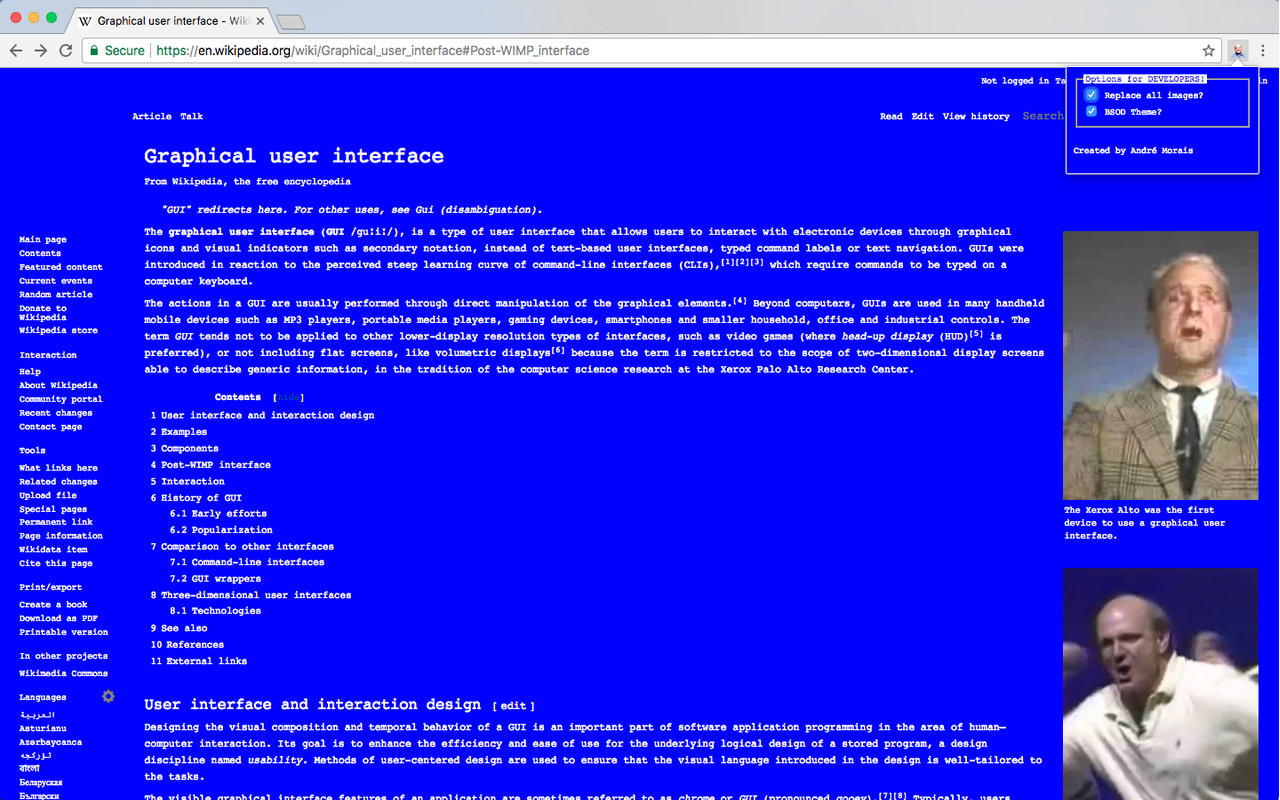
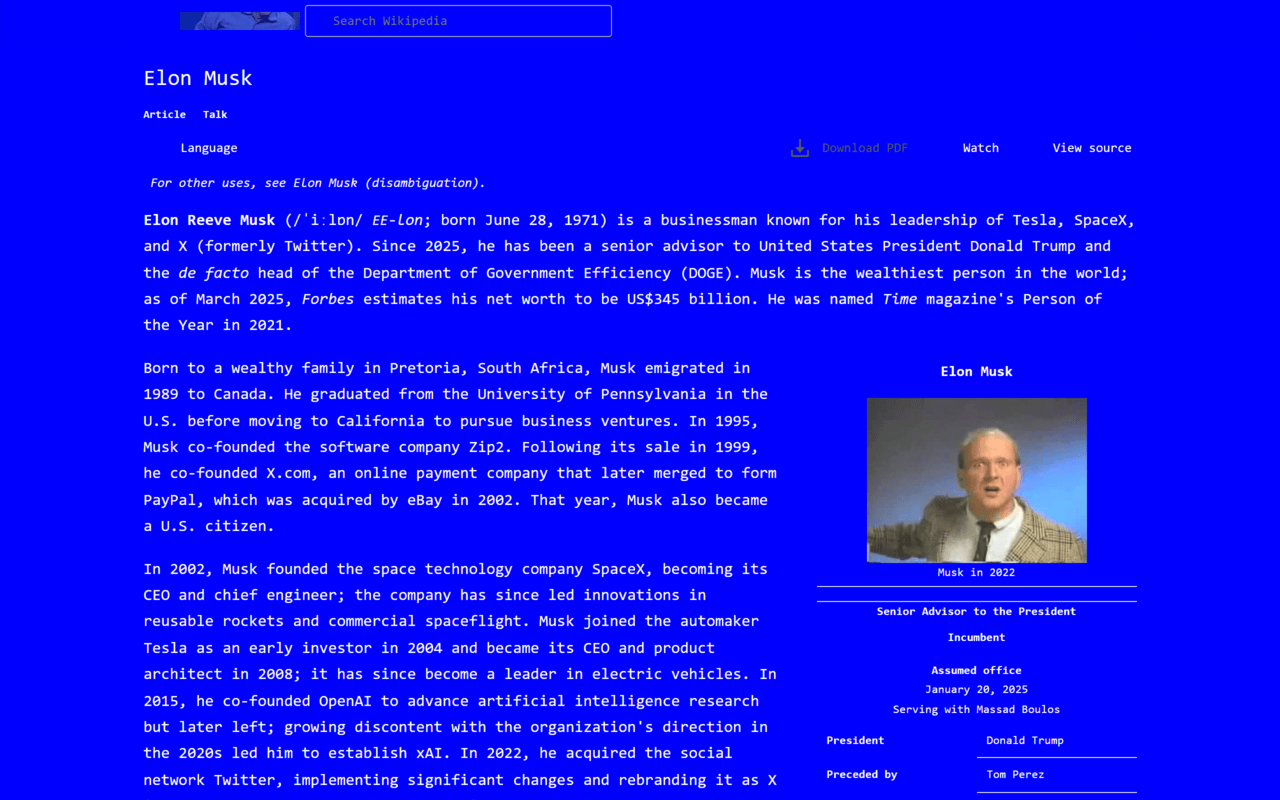
Updated manifest to v3 and minor changes

diff --git a/nSteveBallmer.js b/nSteveBallmer.js
@@ -1,30 +1,30 @@
 //nSteveBallmer
-(function($) {
+(function ($) {
 
   //initialize options
   var changeImages = false;
   var changeBgColor = false;
 
-  chrome.storage.sync.get("replaceImagesValue", function(items) {
+  chrome.storage.sync.get("replaceImagesValue", function (items) {
     if (!chrome.runtime.error) {
       changeImages = items.replaceImagesValue;
     }
   });
 
-  chrome.storage.sync.get("blueBgValue", function(items) {
+  chrome.storage.sync.get("blueBgValue", function (items) {
     if (!chrome.runtime.error) {
       changeBgColor = items.blueBgValue;
     }
   });
 
-  var self = ($.nSteveBallmer = new function() {}());
+  var self = ($.nSteveBallmer = new function () { }());
 
   //populate array of Ballmer images
   var nSteveBallmerImgs = [];
 
   for (i = 1; i <= 30; i++) {
     nSteveBallmerImgs.push(
-      chrome.extension.getURL("images/ballmer-" + zeroPad(i, 2) + ".jpg")
+      chrome.runtime.getURL("images/ballmer-" + zeroPad(i, 2) + ".jpg")
     );
   }
 
@@ -35,24 +35,15 @@
 
   //core - JQuery
   $.extend(self, {
-    handleImages: function(lstImgs, time) {
+    handleImages: function (lstImgs, time) {
       if (!changeImages) return;
 
-      //ToDo: Loop for picture tag
-      // $.each($("picture"), function(i, item) {
-      //   $(item).html('<img src="' + lstImgs[Math.floor(Math.random() * lstImgs.length)] +
-      //   '" class="" alt="" style="object-fit: cover;">');
-      // });
-
-      $.each($("img"), function(i, item) {
-        //Skip if image is already replaced
+      $.each($("img"), function (i, item) {
         if ($.inArray($(item).attr("src"), lstImgs) == -1) {
           var h = $(item).height();
           var w = $(item).width();
 
-          //If image loaded
           if (h > 0 && w > 0) {
-            //Replace
             $(item)
               .css("width", w + "px")
               .css("height", h + "px")
@@ -62,9 +53,7 @@
               lstImgs[Math.floor(Math.random() * lstImgs.length)]
             );
           } else {
-            //Replace when loaded
-            $(item).load(function() {
-              //Prevent 'infinite' loop
+            $(item).load(function () {
               if ($.inArray($(item).attr("src"), lstImgs) == -1) {
                 var h = $(item).height();
                 var w = $(item).width();
@@ -82,36 +71,48 @@
         }
       });
 
-      //Keep replacing
       if (time > 0) {
-        setTimeout(function() {
+        setTimeout(function () {
           self.handleImages(lstImgs, time);
         }, time);
       }
     },
 
-    handleLogo: function(bgImgs, time) {
+    handleImagesInArticle: function (lstImgs, time) {
+      if (!changeImages) return;
+
+      $("picture source").remove();
+      $("img").removeAttr("srcset");
+
+      if (time > 0) {
+        setTimeout(function () {
+          self.handleImagesInArticle(lstImgs, time);
+        }, time);
+      }
+    },
+
+    handleLogo: function (bgImgs, time) {
       if (!changeBgColor) return;
 
       $backgroundImages = $(
         "[class*=logo], [class*=header], [id*=header], [id*=logo], [class*=container]" +
-          "[class*=logo] span, [class*=header] span, [id*=header] span, [id*=logo] span," +
-          "[class*=logo] h1, [class*=header] h1, [id*=header] h1, [id*=logo] h1," +
-          "[class*=logo] a, [class*=header] a, [id*=header] a, [id*=logo] a," +
-          "[class*=container] div, html, body, div, picture"
-      ).filter(function() {
+        "[class*=logo] span, [class*=header] span, [id*=header] span, [id*=logo] span," +
+        "[class*=logo] h1, [class*=header] h1, [id*=header] h1, [id*=logo] h1," +
+        "[class*=logo] a, [class*=header] a, [id*=header] a, [id*=logo] a," +
+        "[class*=container] div, html, body, div, picture"
+      ).filter(function () {
         backgroundImg = $(this).css("background-image");
         return backgroundImg && backgroundImg != "none";
       });
 
-      $backgroundImages.each(function(i, item) {
+      $backgroundImages.each(function (i, item) {
         $(item).css("background", "blue");
         $(item).css("color", "white");
         $(item).css("font-family", "monospace");
       });
     },
 
-    handleBackground: function() {
+    handleBackground: function () {
       if (!changeBgColor) return;
 
       document.body.style.background = "blue";
@@ -119,19 +120,18 @@
       document.body.style.fontFamily = "monospace";
 
       tags = ["a", "p", "h1", "h2", "h3", "h4", "h5", "h6", "div", "span", "cite", "em", "strong", "table",
-              "th", "ul", "il", "input", "body", "button", "dd", "dl", "dt", "em", "fieldset", "form", "i", 
-              "label", "li", "ol", "header", "footer", "img", "section", "content", "nav", "main", "pre", 
-              "code", "blockquote", "textarea", "fb-appbar", "md-card", "console-footer", "Trends", "picture"];
-      
+        "th", "ul", "il", "input", "body", "button", "dd", "dl", "dt", "em", "fieldset", "form", "i",
+        "label", "li", "ol", "header", "footer", "img", "section", "content", "nav", "main", "pre",
+        "code", "blockquote", "textarea", "fb-appbar", "md-card", "console-footer", "Trends", "picture"];
 
-      tags.forEach(function(element) {
+      tags.forEach(function (element) {
         self.setColorOnTag("white", element);
         self.setBackgroundColorOnTag("blue", element);
         self.setFontOnTag("monospace", element);
       }, this);
     },
 
-    setColorOnTag: function(color, tag) {
+    setColorOnTag: function (color, tag) {
       var itens = document.getElementsByTagName(tag);
 
       for (var i = 0; i < itens.length; i++) {
@@ -139,17 +139,18 @@
       }
     },
 
-    setBackgroundColorOnTag: function(bgColor, tag) {
+    setBackgroundColorOnTag: function (bgColor, tag) {
       var itens = document.getElementsByTagName(tag);
 
       for (var i = 0; i < itens.length; i++) {
         itens[i].style.background = bgColor;
         itens[i].style.background.color = bgColor;
         itens[i].style.border = bgColor;
+        itens[i].style.setProperty("background-color", "blue", "important");
       }
     },
 
-    setFontOnTag: function(fontName, tag) {
+    setFontOnTag: function (fontName, tag) {
       var itens = document.getElementsByTagName(tag);
 
       for (var i = 0; i < itens.length; i++) {
@@ -159,8 +160,9 @@
   });
 
   //Run on jQuery ready
-  $(function() {
+  $(function () {
     self.handleImages(nSteveBallmerImgs, 2000);
+    self.handleImagesInArticle(nSteveBallmerImgs, 2000);
     //self.handleLogo(self.nSteveBallmerBackgrounds, 2000);
     self.handleBackground();
   });

diff --git a/menu.html b/menu.html
@@ -1,29 +1,22 @@
 <!DOCTYPE html>
 <html lang="en">
+  <head>
+    <meta charset="utf-8" />
+    <link rel="stylesheet" href="css/style.css" />
+    <script type="text/javascript" src="settings.js"></script>
+  </head>
 
-<head>
-  <meta charset="utf-8" />
-  <link rel="stylesheet" href="css/style.css">
-  <script type="text/javascript" src='settings.js'></script>
-</head>
-
-<body>
-  <fieldset>
-    <legend>Options for DEVELOPERS!</legend>
-    <div>
-      <input type="checkbox" id="replaceImages">
-      <label for="replaceImages">Replace all images?</label>
-    </div>
-    <div>
-      <input type="checkbox" id="blueBg">
-      <label for="blueBg">BSOD Theme?</label>
-    </div>
-  </fieldset>
-
-</body>
-
-<br><br>
-
-<footer>Created by André Morais</footer>
-
+  <body>
+    <fieldset>
+      <legend>Options for DEVELOPERS!</legend>
+      <div>
+        <input type="checkbox" id="replaceImages" />
+        <label for="replaceImages">Replace all images</label>
+      </div>
+      <div>
+        <input type="checkbox" id="blueBg" />
+        <label for="blueBg">Apply BSOD Theme</label>
+      </div>
+    </fieldset>
+  </body>
 </html>

diff --git a/css/style.css b/css/style.css
@@ -17,3 +17,19 @@ legend {
   color: blue;
   font-family: monospace;
 }
+
+fieldset {
+  height: 80px;
+}
+
+div {
+  margin-top: 10px;
+}
+
+label {
+  font-size: 14px;
+}
+
+legend {
+  font-size: 13px;
+}

diff --git a/README.md b/README.md
@@ -5,12 +5,11 @@
 [![Chrome Web Store](https://img.shields.io/chrome-web-store/stars/gehfhnephngekdnodedkeoegelcdkjna.svg)](https://chrome.google.com/webstore/detail/nsteveballmer/gehfhnephngekdnodedkeoegelcdkjna)
 [![Chrome Web Store](https://img.shields.io/chrome-web-store/d/gehfhnephngekdnodedkeoegelcdkjna.svg)](https://chrome.google.com/webstore/detail/nsteveballmer/gehfhnephngekdnodedkeoegelcdkjna)
 
-
 DEVELOPERS, DEVELOPERS, DEVELOPERS, DEVELOPERS!
- 
+
 Replace all boring images from any website with funny Steve Ballmer ones!
 
-A good extension for pranking your friends when they leave the computer unlocked
+Looking for a fun way to prank your friends? This extension is perfect for surprising them when they leave their computer unlocked. Transform any website into a hilarious Steve Ballmer-themed experience in seconds!
 
 <img src="icons/icon128.png">
 
@@ -20,16 +19,17 @@ A good extension for pranking your friends when they leave the computer unlocked
 <img src="images/badge/ChromeWebStore.png">
 </a>
 
-
 ## Features
-- Replace all the images of a WebSite for Steve Ballmer's one
-- Set the BSOD theme on any web
+
+- Instantly replace all images on any website with hilarious Steve Ballmer pictures.
+- Set the [BSOD](https://en.wikipedia.org/wiki/Blue_screen_of_death) theme on any website
 
 ## Screenshots
+
 <picture>
 <img src="images/screenshots/screenshot-1.png" height="323px">
 </br>
-<label>Simple replace all images</label>
+<label>Replace all images with one click for instant laughs!</label>
 </picture>
 </br></br>
 
@@ -41,11 +41,18 @@ A good extension for pranking your friends when they leave the computer unlocked
 </br></br>
 
 <picture>
-<img src="images/screenshots/screenshot-3.png" height="323px">
+<img src="images/screenshots/screenshot-4.png" height="323px">
+</br>
+<label>It works in any website!</label>
+</picture>
+</br></br>
+
+<picture>
+<img src="images/screenshots/screenshot-3.png" width="400px">
 </br>
 <label>Easy to enable and disable</label>
 </picture>
 
 ## More info
-- Website: www.andremorais.com.br
-- Twitter: <a href="https://twitter.com/moraisandre">@moraisandre</a>
+
+- Website: [www.moraisandre.com](https://www.moraisandre.com)
